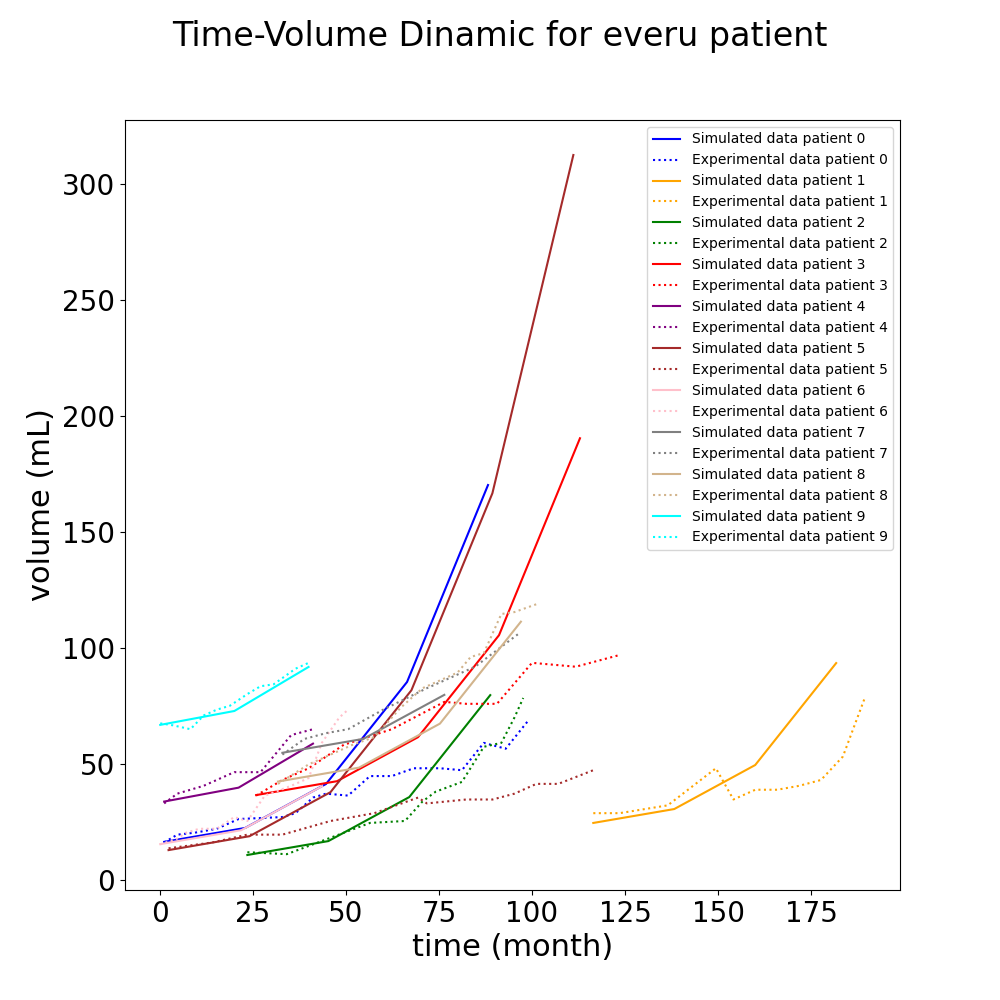
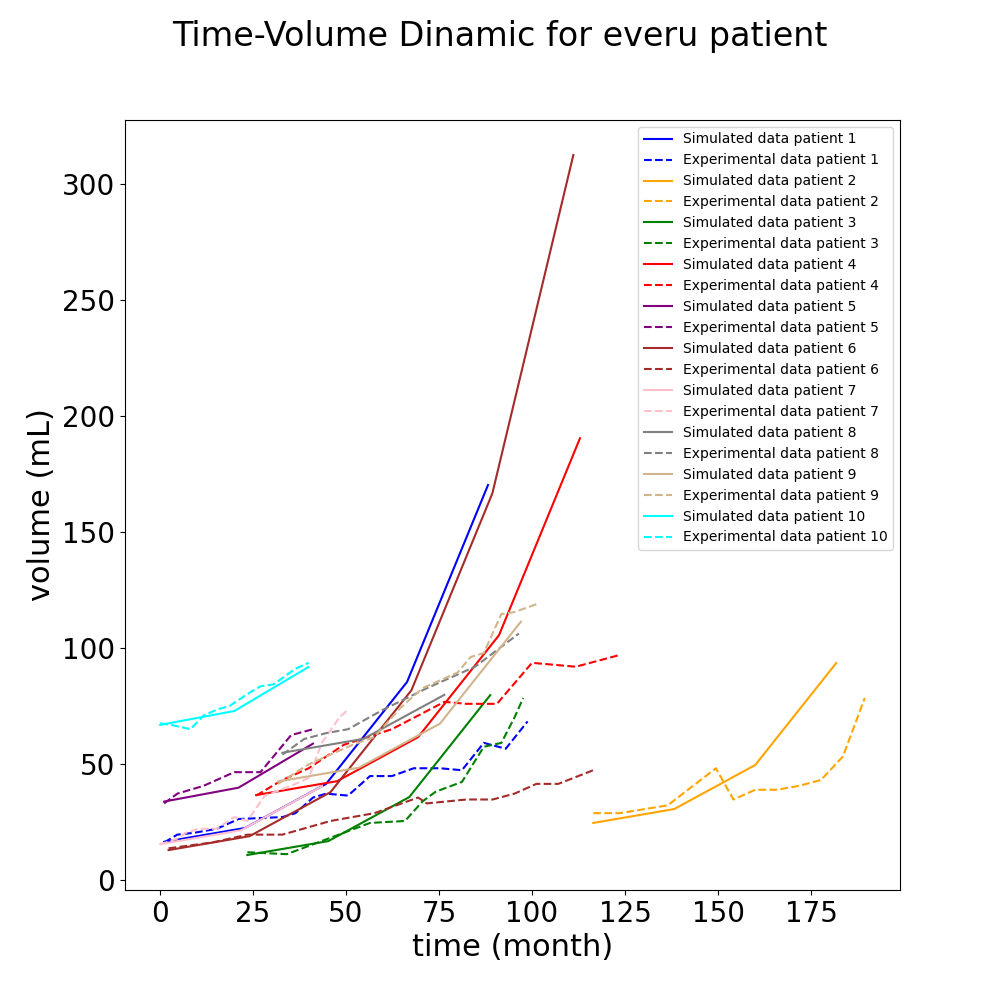
update saving img (format)

Changed region(s): [[0.682, 0.124, 0.899, 0.558]]

diff --git a/NotLinearCancerModel/CancerVolumePlot.py b/NotLinearCancerModel/CancerVolumePlot.py
@@ -87,12 +87,12 @@ for i in range(10):
              allTimeCancer["cancer"][i], 
              color = colors[i],
              linestyle = "-", 
-             label=f"Simulated data patient {i}")
+             label=f"Simulated data patient {i+1}")
     plt.plot(allExperimentalTimeCancer["time"][i], 
              allExperimentalTimeCancer["cancer"][i], 
              color = colors[i],
-             linestyle = ":", 
-             label=f"Experimental data patient {i}")
+             linestyle = "--",
+             label=f"Experimental data patient {i+1}")
 
 plt.legend()
 fig.suptitle(f"Time-Volume Dinamic for everu patient", fontsize=24)
